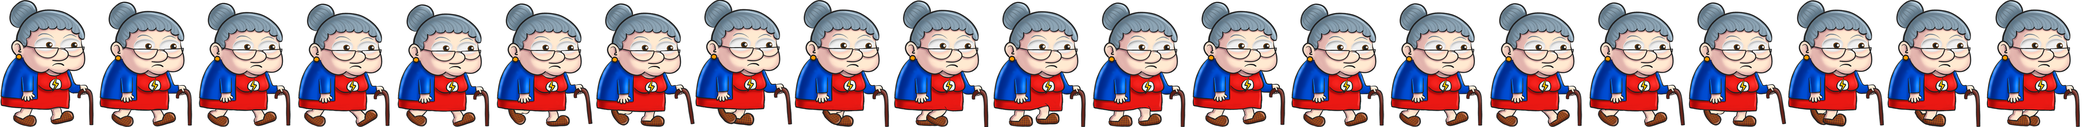
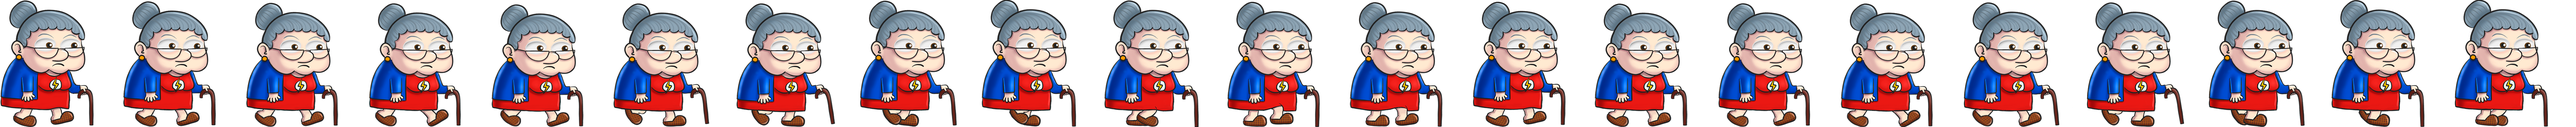
Correciones cuerpo físico en salto,idle y andar

diff --git a/js/abuelaFriki.js b/js/abuelaFriki.js
@@ -40,12 +40,19 @@ function preload() {
     //this.load.spritesheet('abuela', 'assets/abuelaSprite2.png', { frameWidth: 294, frameHeight: 378 }); 
     //this.load.spritesheet('abuelaMovimiento','assets/abuelaSpriteSheet.png', {frameWidth: 363, frameHeight: 378});
     this.load.spritesheet('abuelaMovimiento1', 'assets/abuelaAndar.png', {
-        frameWidth: 294,
+        //frameWidth: 294,
+        frameWidth: 363,
         frameHeight: 378
     });
     this.load.spritesheet('abuelaMovimiento2', 'assets/abuelaSalto.png', {
         frameWidth: 363,
         frameHeight: 374
+    });
+
+    this.load.spritesheet('abuelaQuieta', 'assets/abuelaIdle.png', {
+        //frameWidth: 294,
+        frameWidth: 363,
+        frameHeight: 378
     });
     
     this.load.image('plataformasL', 'assets/plataformaBarnaIzq.png'); // Cargar plataformas
@@ -58,7 +65,7 @@ function preload() {
     this.load.image('monumento5', 'assets/tresTorres1.png');
 }
 
-function create() {
+function create() { //____________________________CREATE__________________________________________________________________________________________
     // Definir el tamaño del mundo del juego
     this.physics.world.setBounds(0, 0, LEVEL_WIDTH, window.innerHeight);
     this.cameras.main.setBounds(0, 0, LEVEL_WIDTH, window.innerHeight);
@@ -117,14 +124,14 @@ function create() {
     });
 
 
-    // Crear el jugador
+    // __________________________________CREAR ABUELA___________________________________________
     //this.player = this.physics.add.sprite(100, 250, 'abuela').setScale(0.4);
-    this.player = this.physics.add.sprite(100, 250, 'abuelaMovimiento').setScale(0.4).setOrigin(0.2,1);
+    this.player = this.physics.add.sprite(100, 250, 'abuelaMovimiento1').setScale(0.4).setOrigin(0.5,1);
 
     // Ajustar el cuerpo físico del jugador
     this.player.body.setSize(150, 320).setOffset(50, 50); // Ajusta tamaño y desplazamiento
-
-    this.player.anims.play('turn'); // Animación de reposo puesto que al estar en el aire daría error con el salto
+    
+    this.player.anims.play('abuelaQuieta'); // Animación de reposo puesto que al estar en el aire daría error con el salto
     
     
     // Configurar físicas del jugador
@@ -144,27 +151,27 @@ function create() {
     // Animaciones de la abuela
     this.anims.create({
         key: 'left',
-        frames: this.anims.generateFrameNumbers('abuelaMovimiento1', { start: 0, end: 21 }),
+        frames: this.anims.generateFrameNumbers('abuelaMovimiento1', { start: 0, end: 20 }),
         frameRate: 30,
         repeat: -1
     });
 
     this.anims.create({
-        key: 'turn',
-        frames: [{ key: 'abuelaMovimiento1', frame: 5}],
-        frameRate: 20
+        key: 'abuelaIdle',
+        frames: [{ key: 'abuelaQuieta', frame: 1}],
+        frameRate: 1
     });
 
     this.anims.create({
         key: 'right',
-        frames: this.anims.generateFrameNumbers('abuelaMovimiento1', { start: 0, end: 21 }),
+        frames: this.anims.generateFrameNumbers('abuelaMovimiento1', { start: 0, end: 20 }),
         frameRate: 30,
         repeat: -1
     });
 
     this.anims.create({
         key: 'jump',
-        frames: this.anims.generateFrameNumbers('abuelaMovimiento2', { start: 0, end: 21 }), // Rango para salto
+        frames: this.anims.generateFrameNumbers('abuelaMovimiento2', { start: 0, end: 20 }), // Rango para salto
         frameRate: 14,
         repeat: 0 // Sin bucle, se ejecuta una vez por salto
     });
@@ -176,30 +183,42 @@ function create() {
     }
 }
 
-function update() {
+function update() { //____________________________UPDATE__________________________________________________________________________________________
+
    
         if (currentControl === 'keyboard') {
         // Controlar si el jugador está en el aire
         let isOnGround = this.player.body.touching.down;
 
-        // Movimiento horizontal
+        // ABUELA -- Movimiento horizontal
         if (cursors.left.isDown) {
             this.player.setVelocityX(-300);
             if (isOnGround) this.player.anims.play('left', true);
             this.player.flipX = true;
+            //console.log('Mira a la izquierda');
+            this.player.body.setOffset(150, 50); // Al hacer el flipX es necesario jugar con los offset para centrar cuerpo
         } else if (cursors.right.isDown) {
             this.player.setVelocityX(300);
             if (isOnGround) this.player.anims.play('right', true);
             this.player.flipX = false;
+            this.player.body.setOffset(50, 50);
         } else {
             this.player.setVelocityX(0);
-            if (isOnGround) this.player.anims.play('turn'); // Animación de reposo si está en el suelo
+            if (isOnGround) this.player.anims.play('abuelaIdle'); // Animación de reposo si está en el suelo
+            
+            if (this.player.flipX == true){
+                this.player.body.setOffset(150, 50);
+                console.log('Mira a la izquierda');
+            }else{
+                this.player.body.setOffset(50, 50);
+            }
         }
 
-        // Salto del jugador
+        // ABUELA -- Salto 
         if (cursors.up.isDown && isOnGround) {
             this.player.setVelocityY(-630);
             this.player.anims.play('jump'); // Reproducir animación de salto una vez
+            this.player.body.setOffset(150, 50);
         }
     }
         
